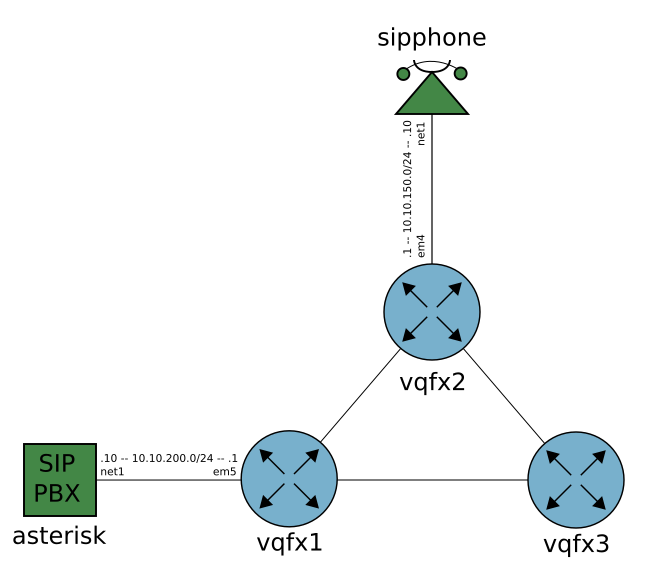
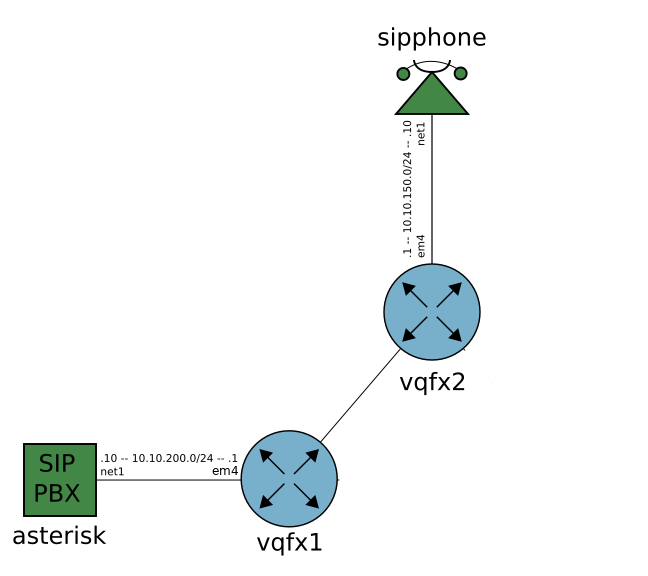
update tshoot lesson with correct vqfx configs now that vqfx3 is gone

diff --git a/lessons/workflows/lesson-21-tshoot-ipphone/stage1/guide.md b/lessons/workflows/lesson-21-tshoot-ipphone/stage1/guide.md
@@ -1,4 +1,6 @@
-# Get IP address from Phone Extension
+# Automating the Troubleshooting Chain
+
+# Part 1 - Get IP address from Phone Extension
 
 In this lesson, we'll talk about breaking a common workflow down into smaller pieces.  Using the knowledge we gained from previous lessons, we'll build a small script for each piece of the workflow.  Finally, we'll string these small scripts together at the linux command-line in order to rebuild our workflow.
 
